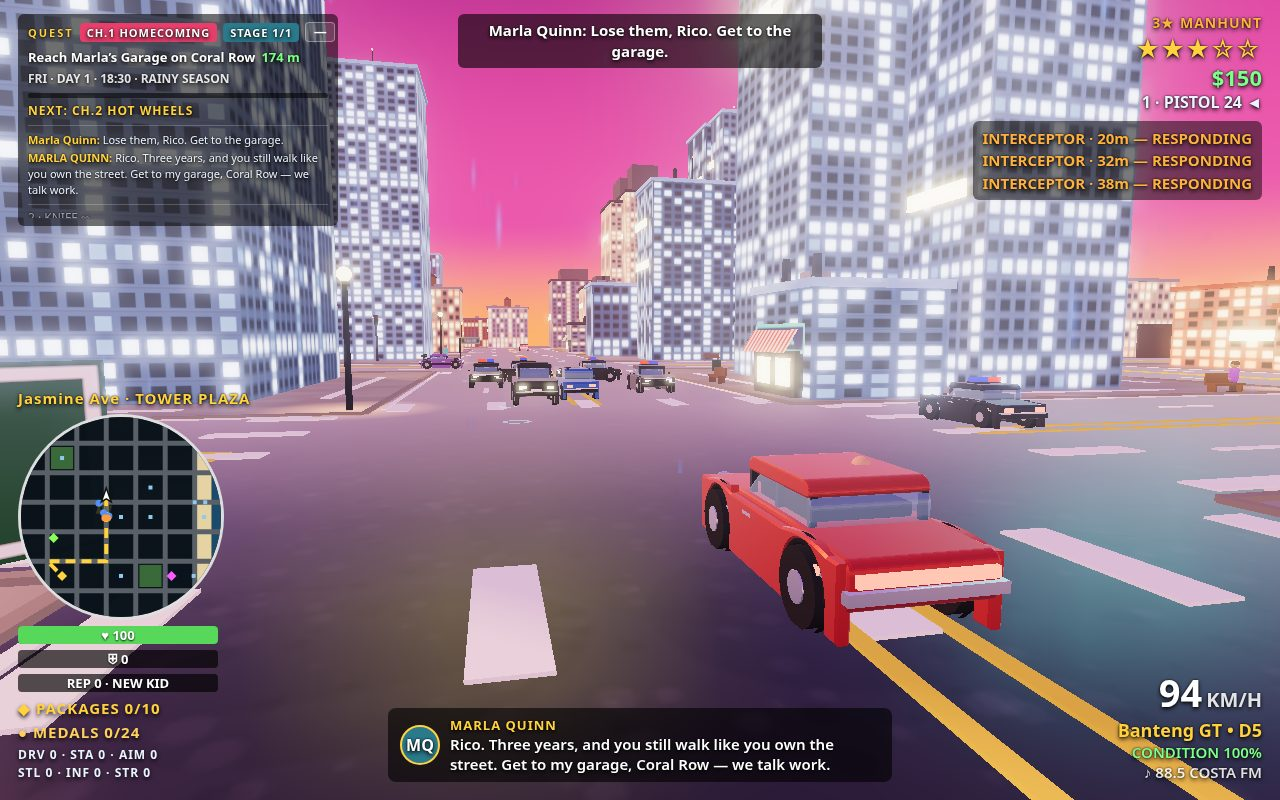
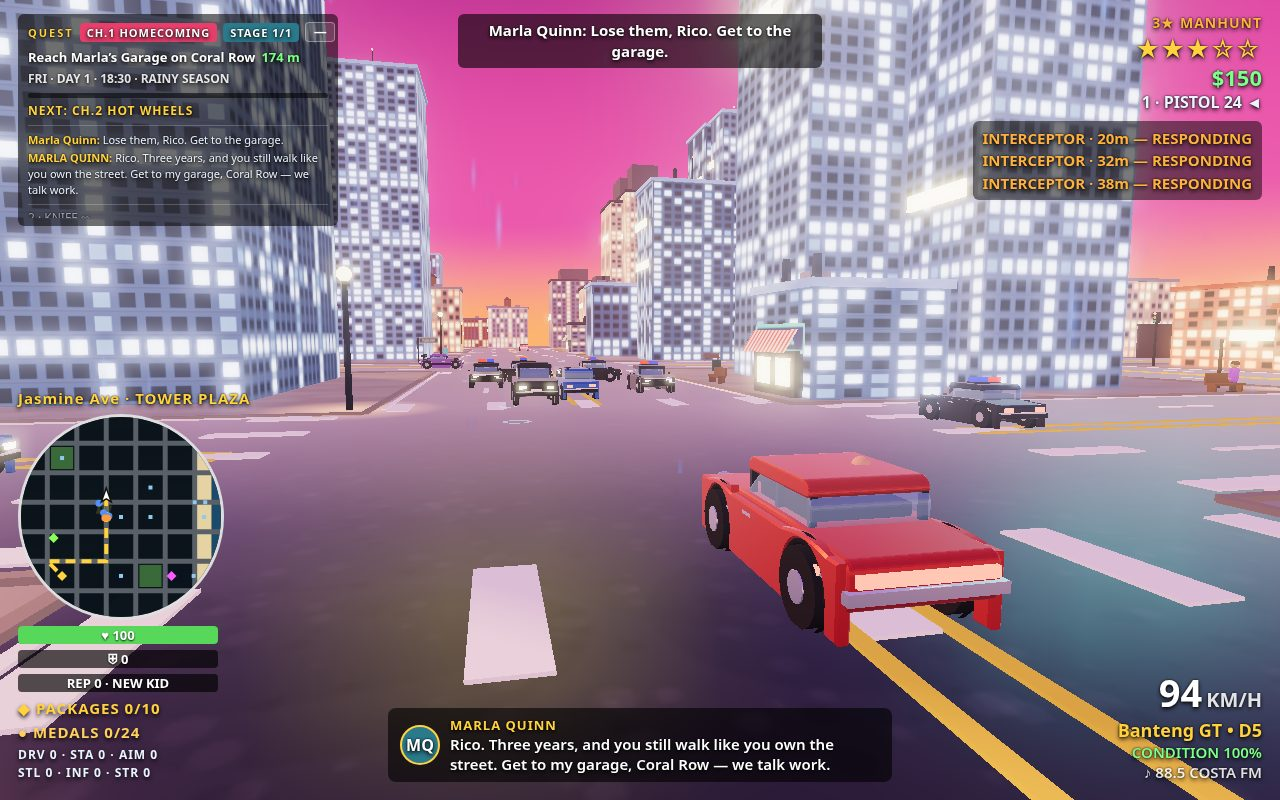
Iter7 fix: traffic lights to real crossings, sign/light poles off asphalt (+14m), pole-on-road guardrail

diff --git a/game/src/city.js b/game/src/city.js
@@ -2461,8 +2461,14 @@ export function buildCity(scene, rng, cfg) {
       },
     };
     lightHeads.push({ x: j.x, z: j.z, mats });
+    // v9 iteration 7-fix: poles stand 14 m from the junction centre —
+    // 4 m past the curb (road band ends at 10 m), on the sidewalk
+    // corner. The old ±8 put them 2 m inside the road rect, standing
+    // on the asphalt; ±12 collided with the lamp poles at 11 m and a
+    // palm trunk at 12 m. Heads + lamps sit on the pole, so they move
+    // with it. The stop line stays at ±14.5, just past the pole.
     for (const [cx, cz] of [
-      [j.x - 8, j.z - 8], [j.x + 8, j.z - 8], [j.x - 8, j.z + 8], [j.x + 8, j.z + 8],
+      [j.x - 14, j.z - 14], [j.x + 14, j.z - 14], [j.x - 14, j.z + 14], [j.x + 14, j.z + 14],
     ]) {
       const pole = new THREE.Mesh(new THREE.CylinderGeometry(0.12, 0.16, 5.5, 6), poleMat);
       pole.position.set(cx, 2.75, cz);
@@ -2499,14 +2505,25 @@ export function buildCity(scene, rng, cfg) {
     { x: -28, z: 28, name: 'PLAZA WAY' },
     { x: 28, z: 84, name: 'DOCKS RD' },
     { x: 84, z: -28, name: 'SUNSET DR' },
-    { x: -84, z: 84, name: 'DOCKS RD' },
+    // v9 iteration 7-fix: this sign's NE corner sits inside the
+    // building at (-68,100), so its pole takes the SE corner instead.
+    // Every other sign keeps the NE corner.
+    { x: -84, z: 84, name: 'DOCKS RD', corner: 'SE' },
     { x: 84, z: 56, name: 'BOARDWALK AVE' },
     { x: -28, z: -56, name: 'CINE ST' },
     { x: 56, z: -84, name: 'BAYVIEW LN' },
   ];
   for (const s of STREET_SIGNS) {
-    const px = s.x + 8.5;
-    const pz = s.z + 8.5;
+    // v9 iteration 7-fix: the pole stands 14 m from the intersection
+    // in both axes — 4 m past the curb (road band ends at 10 m), on
+    // the sidewalk corner. The old +8.5 put it 1.5 m ON the asphalt.
+    // 14 m also clears the lamp poles at 11 m, the benches at 11.5 m
+    // and the palms at 12 m. The blade still hangs 1.7 m from the
+    // pole toward the junction, pole at the blade's end.
+    const sx = 1;
+    const sz = s.corner === 'SE' ? -1 : 1;
+    const px = s.x + sx * 14;
+    const pz = s.z + sz * 14;
     const pole = new THREE.Mesh(new THREE.CylinderGeometry(0.09, 0.12, 3.2, 6), poleMat);
     pole.position.set(px, 1.63, pz);
     pole.userData.cat = 'sign'; // v9 iteration 7 (§3)
@@ -3215,6 +3232,10 @@ export function buildCity(scene, rng, cfg) {
       // at least the blade half-length (1.6) minus a 0.3 tolerance.
       const along = Math.abs((s.bladeX - s.px) * s.axisX + (s.bladeZ - s.pz) * s.axisZ);
       const poleOffset = Math.round(along * 100) / 100;
+      // v9 iteration 7-fix: the pole itself must stand OFF the road
+      // (on the sidewalk corner). The old +8.5 offset put every pole
+      // 1.5 m onto the asphalt and no check caught it.
+      const poleOnRoad = roadHitPoint(s.px, s.pz);
       // A lamp pole within 1 m of the blade segment can hide the text
       // from an approach angle, so that is flagged too.
       let lampNear = null;
@@ -3228,8 +3249,8 @@ export function buildCity(scene, rng, cfg) {
           break;
         }
       }
-      if (poleOffset < 1.3 || lampNear) {
-        out.signs.push({ name: s.name, x: s.x, z: s.z, poleOffset, lampNear });
+      if (poleOffset < 1.3 || lampNear || poleOnRoad) {
+        out.signs.push({ name: s.name, x: s.x, z: s.z, poleOffset, lampNear, poleOnRoad });
       }
     }
     for (let i = 0; i < rampMeshes.length; i += 1) {

diff --git a/src/city.js b/src/city.js
@@ -2461,8 +2461,14 @@ export function buildCity(scene, rng, cfg) {
       },
     };
     lightHeads.push({ x: j.x, z: j.z, mats });
+    // v9 iteration 7-fix: poles stand 14 m from the junction centre —
+    // 4 m past the curb (road band ends at 10 m), on the sidewalk
+    // corner. The old ±8 put them 2 m inside the road rect, standing
+    // on the asphalt; ±12 collided with the lamp poles at 11 m and a
+    // palm trunk at 12 m. Heads + lamps sit on the pole, so they move
+    // with it. The stop line stays at ±14.5, just past the pole.
     for (const [cx, cz] of [
-      [j.x - 8, j.z - 8], [j.x + 8, j.z - 8], [j.x - 8, j.z + 8], [j.x + 8, j.z + 8],
+      [j.x - 14, j.z - 14], [j.x + 14, j.z - 14], [j.x - 14, j.z + 14], [j.x + 14, j.z + 14],
     ]) {
       const pole = new THREE.Mesh(new THREE.CylinderGeometry(0.12, 0.16, 5.5, 6), poleMat);
       pole.position.set(cx, 2.75, cz);
@@ -2499,14 +2505,25 @@ export function buildCity(scene, rng, cfg) {
     { x: -28, z: 28, name: 'PLAZA WAY' },
     { x: 28, z: 84, name: 'DOCKS RD' },
     { x: 84, z: -28, name: 'SUNSET DR' },
-    { x: -84, z: 84, name: 'DOCKS RD' },
+    // v9 iteration 7-fix: this sign's NE corner sits inside the
+    // building at (-68,100), so its pole takes the SE corner instead.
+    // Every other sign keeps the NE corner.
+    { x: -84, z: 84, name: 'DOCKS RD', corner: 'SE' },
     { x: 84, z: 56, name: 'BOARDWALK AVE' },
     { x: -28, z: -56, name: 'CINE ST' },
     { x: 56, z: -84, name: 'BAYVIEW LN' },
   ];
   for (const s of STREET_SIGNS) {
-    const px = s.x + 8.5;
-    const pz = s.z + 8.5;
+    // v9 iteration 7-fix: the pole stands 14 m from the intersection
+    // in both axes — 4 m past the curb (road band ends at 10 m), on
+    // the sidewalk corner. The old +8.5 put it 1.5 m ON the asphalt.
+    // 14 m also clears the lamp poles at 11 m, the benches at 11.5 m
+    // and the palms at 12 m. The blade still hangs 1.7 m from the
+    // pole toward the junction, pole at the blade's end.
+    const sx = 1;
+    const sz = s.corner === 'SE' ? -1 : 1;
+    const px = s.x + sx * 14;
+    const pz = s.z + sz * 14;
     const pole = new THREE.Mesh(new THREE.CylinderGeometry(0.09, 0.12, 3.2, 6), poleMat);
     pole.position.set(px, 1.63, pz);
     pole.userData.cat = 'sign'; // v9 iteration 7 (§3)
@@ -3215,6 +3232,10 @@ export function buildCity(scene, rng, cfg) {
       // at least the blade half-length (1.6) minus a 0.3 tolerance.
       const along = Math.abs((s.bladeX - s.px) * s.axisX + (s.bladeZ - s.pz) * s.axisZ);
       const poleOffset = Math.round(along * 100) / 100;
+      // v9 iteration 7-fix: the pole itself must stand OFF the road
+      // (on the sidewalk corner). The old +8.5 offset put every pole
+      // 1.5 m onto the asphalt and no check caught it.
+      const poleOnRoad = roadHitPoint(s.px, s.pz);
       // A lamp pole within 1 m of the blade segment can hide the text
       // from an approach angle, so that is flagged too.
       let lampNear = null;
@@ -3228,8 +3249,8 @@ export function buildCity(scene, rng, cfg) {
           break;
         }
       }
-      if (poleOffset < 1.3 || lampNear) {
-        out.signs.push({ name: s.name, x: s.x, z: s.z, poleOffset, lampNear });
+      if (poleOffset < 1.3 || lampNear || poleOnRoad) {
+        out.signs.push({ name: s.name, x: s.x, z: s.z, poleOffset, lampNear, poleOnRoad });
       }
     }
     for (let i = 0; i < rampMeshes.length; i += 1) {

diff --git a/game/src/game.js b/game/src/game.js
@@ -3837,21 +3837,6 @@ export function createGame(canvas, seed) {
           }
           return worst;
         };
-        // Distance from a footprint to the nearest edge of any road rect
-        // it overlaps (Infinity if it overlaps none). Junction-corner
-        // furniture sits ~2 m inside the edge by design; a pole deep in
-        // the road is far from every edge.
-        const roadEdgeDist = (x0, x1, z0, z1) => {
-          let best = Infinity;
-          for (const r of roads) {
-            const ox = Math.min(x1, r.x1) - Math.max(x0, r.x0);
-            const oz = Math.min(z1, r.z1) - Math.max(z0, r.z0);
-            if (ox > 0 && oz > 0) {
-              best = Math.min(best, r.x1 - x1, x0 - r.x0, r.z1 - z1, z0 - r.z0);
-            }
-          }
-          return best;
-        };
         const out = {
           meshes: 0, instances: 0, placeables: 0, flat: 0, elevated: 0, huge: 0,
           overlaps: [], uncategorised: [], cornerPoles: 0, cornerPolesOffRoad: 0, byCategory: {},
@@ -3912,22 +3897,23 @@ export function createGame(canvas, seed) {
           // drivable). Same precedent as the 'dock' exemption above.
           if (c === 'ramp') return;
           // Junction-corner furniture (traffic-light + street-sign
-          // poles): they stand at the corner of an intersection, ~2 m
-          // inside the road rect's edge, by design. They pass if they
-          // sit within 2.5 m of the road edge — a pole deep in the road
-          // (a real misplacement) fails. A pole that overlaps NO road
-          // rect at all (edge === Infinity) is off-road, not deep in
-          // one — it passes this check. (v9 iteration 7: three of the
-          // six signalled junctions — (0,0), (-56,0), (0,56) — are not
-          // road crossings, so their 12 poles overlap no road and were
-          // wrongly flagged. Whether those junctions belong there is a
-          // design decision, not a road violation; see the probe notes.)
+          // poles): the POLE must stand on the sidewalk, clear of
+          // every road rect. Any overlap with a road rect (> 0.05 m)
+          // is a misplacement and fails — the old rule allowed poles
+          // up to 2.5 m inside the road edge "by design", which is
+          // exactly how poles ended up standing on the asphalt (the
+          // user caught all 8 street signs + the light poles on the
+          // road in the 19 Nov playtest). Blades and heads never reach
+          // this branch: they are elevated (base >= 2 m) and return
+          // above, so this rule reads the POLE mesh only. A pole that
+          // overlaps NO road rect is off-road — the correct state —
+          // and passes.
           if (c === 'traffic-light' || c === 'sign') {
-            const edge = roadEdgeDist(x0, x1, z0, z1);
+            const hit = roadHit(x0, x1, z0, z1);
             out.cornerPoles += 1;
-            if (edge === Infinity) out.cornerPolesOffRoad += 1;
-            if (edge !== Infinity && edge > 2.5) {
-              out.overlaps.push({ cat: c, x: r1((x0 + x1) / 2), z: r1((z0 + z1) / 2), w: r1(w), d: r1(d), road: 'corner-pole too deep', depth: r1(edge) });
+            if (!hit) out.cornerPolesOffRoad += 1;
+            if (hit) {
+              out.overlaps.push({ cat: c, x: r1((x0 + x1) / 2), z: r1((z0 + z1) / 2), w: r1(w), d: r1(d), road: 'corner-pole on road', ...hit });
             }
             return;
           }

diff --git a/src/game.js b/src/game.js
@@ -3837,21 +3837,6 @@ export function createGame(canvas, seed) {
           }
           return worst;
         };
-        // Distance from a footprint to the nearest edge of any road rect
-        // it overlaps (Infinity if it overlaps none). Junction-corner
-        // furniture sits ~2 m inside the edge by design; a pole deep in
-        // the road is far from every edge.
-        const roadEdgeDist = (x0, x1, z0, z1) => {
-          let best = Infinity;
-          for (const r of roads) {
-            const ox = Math.min(x1, r.x1) - Math.max(x0, r.x0);
-            const oz = Math.min(z1, r.z1) - Math.max(z0, r.z0);
-            if (ox > 0 && oz > 0) {
-              best = Math.min(best, r.x1 - x1, x0 - r.x0, r.z1 - z1, z0 - r.z0);
-            }
-          }
-          return best;
-        };
         const out = {
           meshes: 0, instances: 0, placeables: 0, flat: 0, elevated: 0, huge: 0,
           overlaps: [], uncategorised: [], cornerPoles: 0, cornerPolesOffRoad: 0, byCategory: {},
@@ -3912,22 +3897,23 @@ export function createGame(canvas, seed) {
           // drivable). Same precedent as the 'dock' exemption above.
           if (c === 'ramp') return;
           // Junction-corner furniture (traffic-light + street-sign
-          // poles): they stand at the corner of an intersection, ~2 m
-          // inside the road rect's edge, by design. They pass if they
-          // sit within 2.5 m of the road edge — a pole deep in the road
-          // (a real misplacement) fails. A pole that overlaps NO road
-          // rect at all (edge === Infinity) is off-road, not deep in
-          // one — it passes this check. (v9 iteration 7: three of the
-          // six signalled junctions — (0,0), (-56,0), (0,56) — are not
-          // road crossings, so their 12 poles overlap no road and were
-          // wrongly flagged. Whether those junctions belong there is a
-          // design decision, not a road violation; see the probe notes.)
+          // poles): the POLE must stand on the sidewalk, clear of
+          // every road rect. Any overlap with a road rect (> 0.05 m)
+          // is a misplacement and fails — the old rule allowed poles
+          // up to 2.5 m inside the road edge "by design", which is
+          // exactly how poles ended up standing on the asphalt (the
+          // user caught all 8 street signs + the light poles on the
+          // road in the 19 Nov playtest). Blades and heads never reach
+          // this branch: they are elevated (base >= 2 m) and return
+          // above, so this rule reads the POLE mesh only. A pole that
+          // overlaps NO road rect is off-road — the correct state —
+          // and passes.
           if (c === 'traffic-light' || c === 'sign') {
-            const edge = roadEdgeDist(x0, x1, z0, z1);
+            const hit = roadHit(x0, x1, z0, z1);
             out.cornerPoles += 1;
-            if (edge === Infinity) out.cornerPolesOffRoad += 1;
-            if (edge !== Infinity && edge > 2.5) {
-              out.overlaps.push({ cat: c, x: r1((x0 + x1) / 2), z: r1((z0 + z1) / 2), w: r1(w), d: r1(d), road: 'corner-pole too deep', depth: r1(edge) });
+            if (!hit) out.cornerPolesOffRoad += 1;
+            if (hit) {
+              out.overlaps.push({ cat: c, x: r1((x0 + x1) / 2), z: r1((z0 + z1) / 2), w: r1(w), d: r1(d), road: 'corner-pole on road', ...hit });
             }
             return;
           }

diff --git a/game/src/config.js b/game/src/config.js
@@ -313,18 +313,22 @@ export const CONFIG = {
   },
   // Traffic lights: one city-wide cycle, so every junction changes
   // together and the player can read the rhythm. Green 7 s, yellow 1.5 s,
-  // then the other axis. The six junctions are the busiest crossings.
+  // then the other axis. The six junctions are the busiest crossings —
+  // every one is a real crossing: both coords sit on road lines
+  // (-140, -84, -28, 28, 84, 140). A junction anywhere else puts its
+  // poles in a block or on a straight road (v9 iteration 7-fix: the old
+  // (0,0), (-56,0), (0,56) and (56,28) were mid-block, not crossings).
   lights: {
     greenSeconds: 7,
     yellowSeconds: 1.5,
     stopDistance: 12,
     junctions: [
-      { x: 0, z: 0 },
-      { x: -56, z: 0 },
+      { x: -84, z: 28 },
+      { x: 84, z: -84 },
       { x: 28, z: -28 },
-      { x: 0, z: 56 },
+      { x: 84, z: 84 },
       { x: -28, z: -84 },
-      { x: 56, z: 28 },
+      { x: 28, z: 140 },
     ],
   },
   // Ten hidden packages, $50 each, tucked into alleys, parks, the beach

diff --git a/src/config.js b/src/config.js
@@ -313,18 +313,22 @@ export const CONFIG = {
   },
   // Traffic lights: one city-wide cycle, so every junction changes
   // together and the player can read the rhythm. Green 7 s, yellow 1.5 s,
-  // then the other axis. The six junctions are the busiest crossings.
+  // then the other axis. The six junctions are the busiest crossings —
+  // every one is a real crossing: both coords sit on road lines
+  // (-140, -84, -28, 28, 84, 140). A junction anywhere else puts its
+  // poles in a block or on a straight road (v9 iteration 7-fix: the old
+  // (0,0), (-56,0), (0,56) and (56,28) were mid-block, not crossings).
   lights: {
     greenSeconds: 7,
     yellowSeconds: 1.5,
     stopDistance: 12,
     junctions: [
-      { x: 0, z: 0 },
-      { x: -56, z: 0 },
+      { x: -84, z: 28 },
+      { x: 84, z: -84 },
       { x: 28, z: -28 },
-      { x: 0, z: 56 },
+      { x: 84, z: 84 },
       { x: -28, z: -84 },
-      { x: 56, z: 28 },
+      { x: 28, z: 140 },
     ],
   },
   // Ten hidden packages, $50 each, tucked into alleys, parks, the beach
